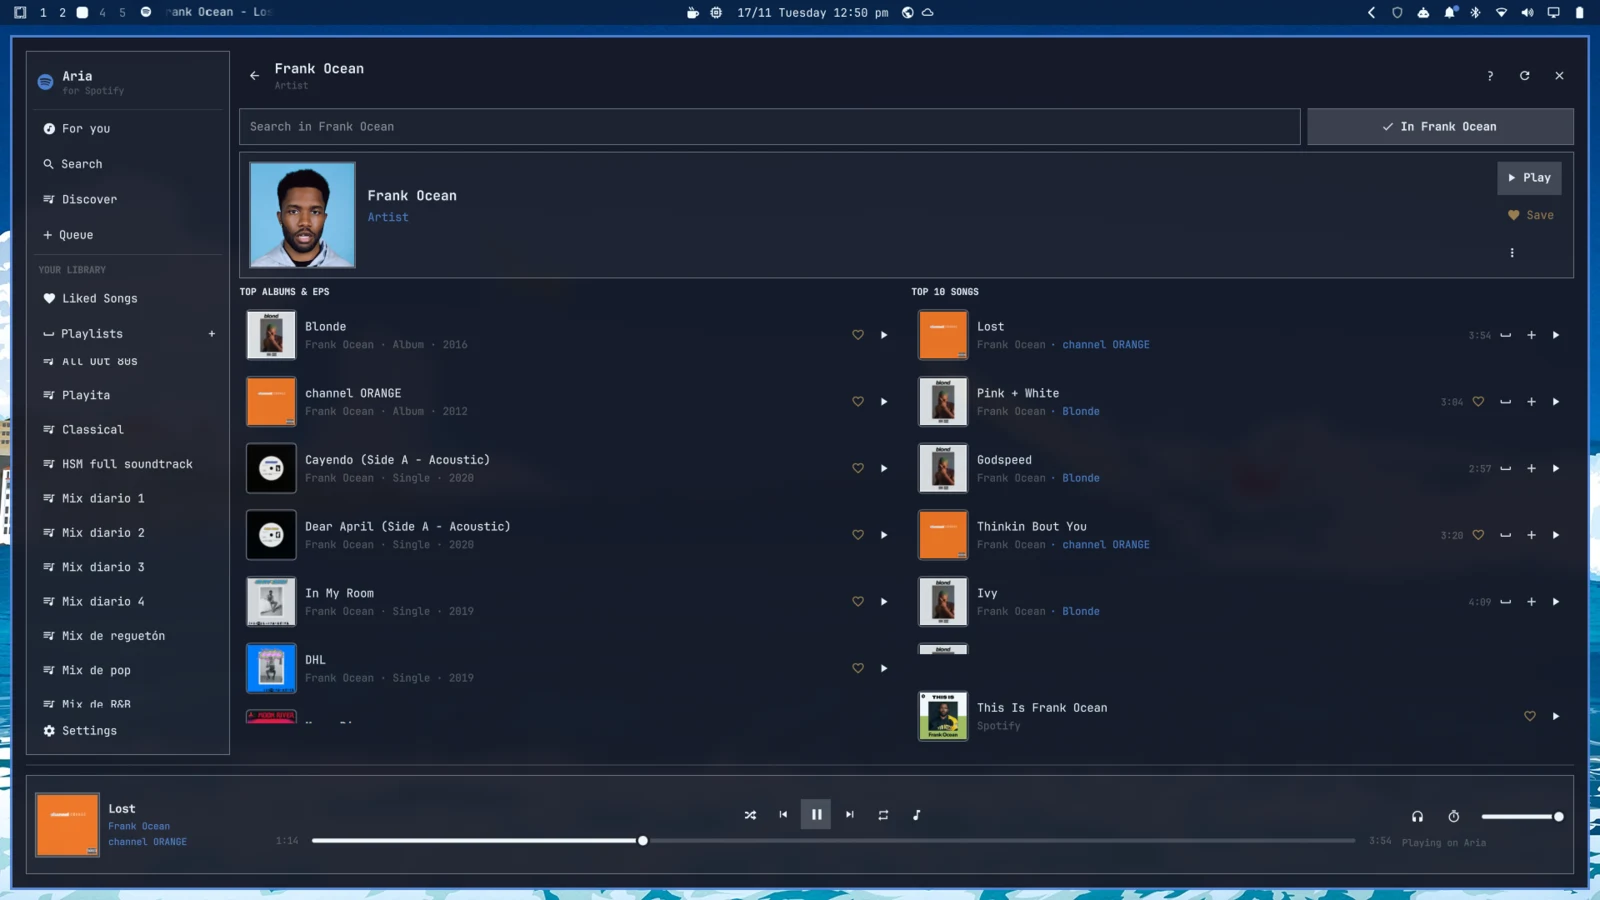
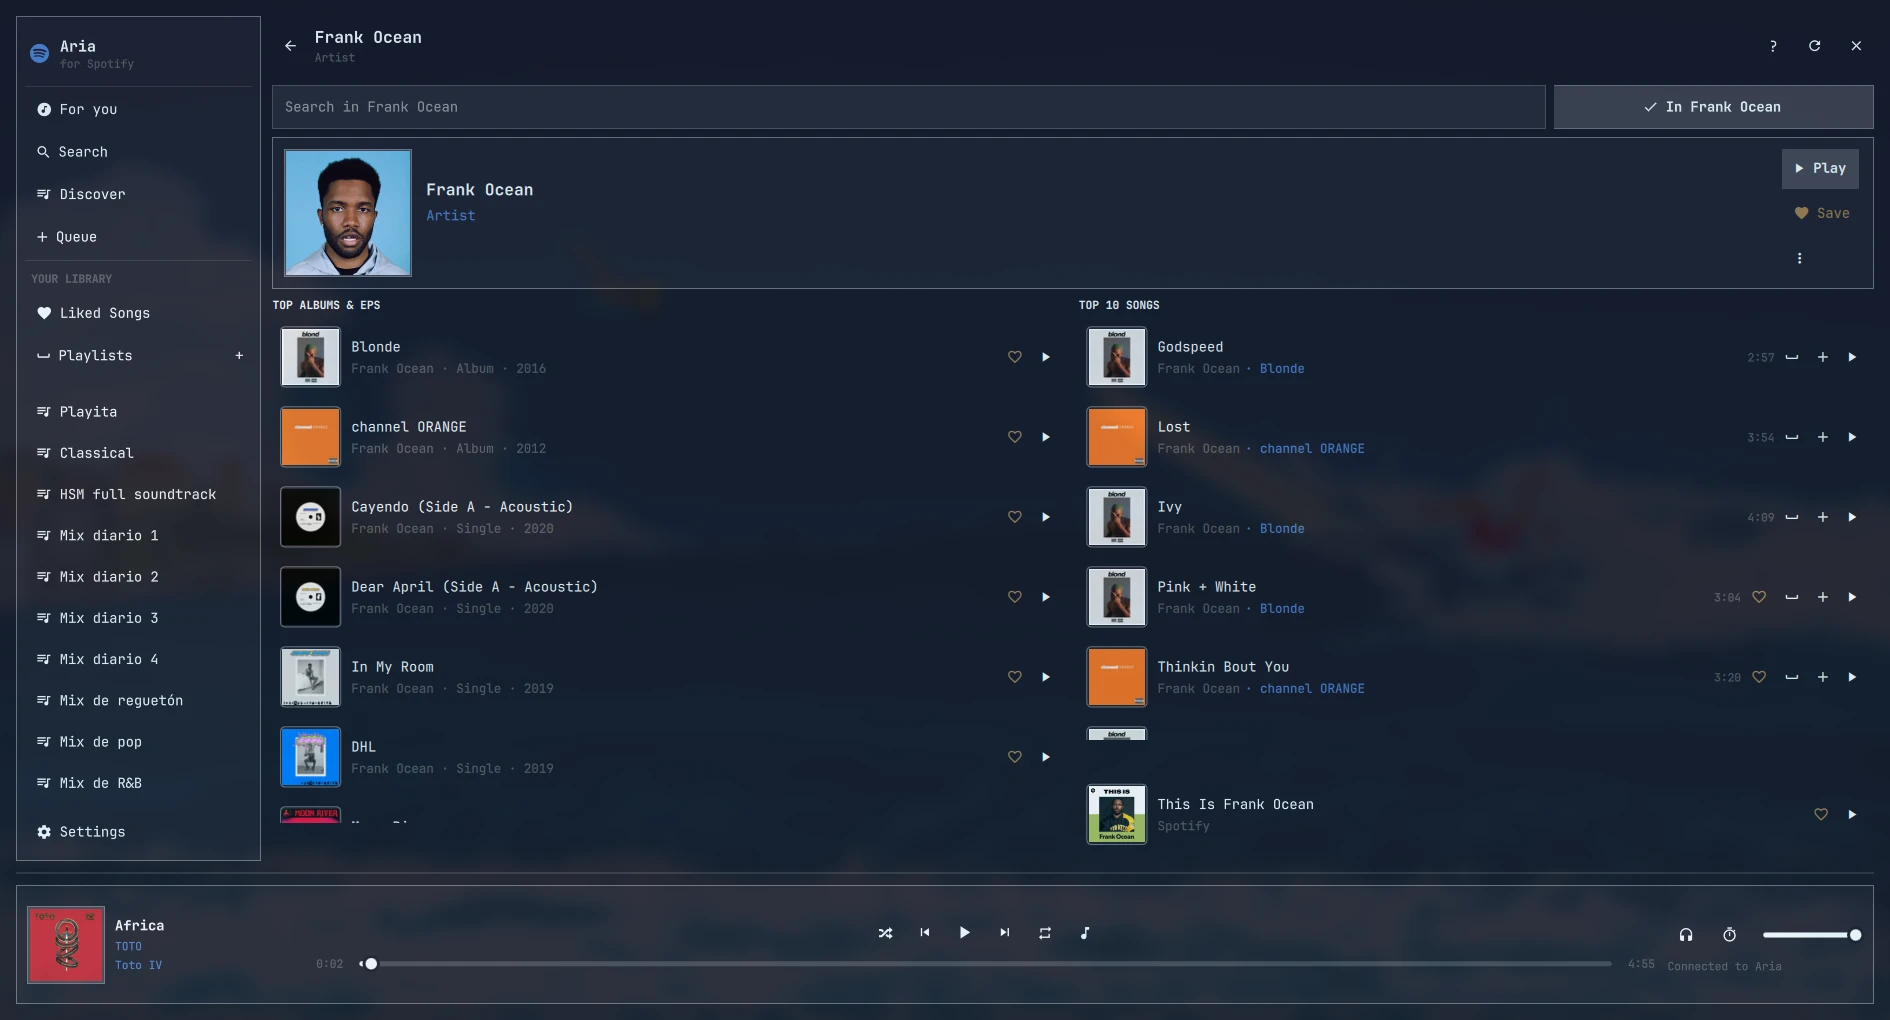
Refresh the README screenshots
Retake every shot on the current build: the playlists, artist and
mini-player pages, plus new lyrics and settings sections covering the
built-in synced lyrics and the landing-page picker.

Changed region(s): [[0.0, 0.0, 1.0, 1.0], [0.9062, 0.56, 0.9375, 0.5911]]

diff --git a/README.md b/README.md
@@ -79,13 +79,28 @@ your Omarchy theme.
 Top albums and EPs sit beside the artist's ten biggest songs, with their
 **This Is** playlist and full catalog only a search away.
 
-![The Frank Ocean artist page with top albums and top songs while Lost is playing](docs/screenshots/artist.webp)
+![The Frank Ocean artist page with top albums and top songs](docs/screenshots/artist.webp)
+
+### Sing along, line by line
+
+Built-in lyrics follow the song in real time—no extra app, no browser tab.
+The current line lights up as it plays, teleprompter style.
+
+![The lyrics view following Lost by Frank Ocean line by line, with the current line highlighted](docs/screenshots/lyrics.webp)
 
 ### A mini player that belongs in your desktop
 
 The essentials are always one click away, without reopening the full app.
 
 ![The mini player showing Lost by Frank Ocean with playback controls and volume](docs/screenshots/mini-player.webp)
+
+### Make it yours
+
+Pick the page the player opens on—For you, Liked Songs, Search, Playlists, or
+one specific playlist—then tune the bar player, artwork and keyboard hints to
+taste.
+
+![The Settings page with the landing page picker between For you, Liked Songs, Search and Playlists](docs/screenshots/settings.webp)
 
 ## Log in with Spotify
 
